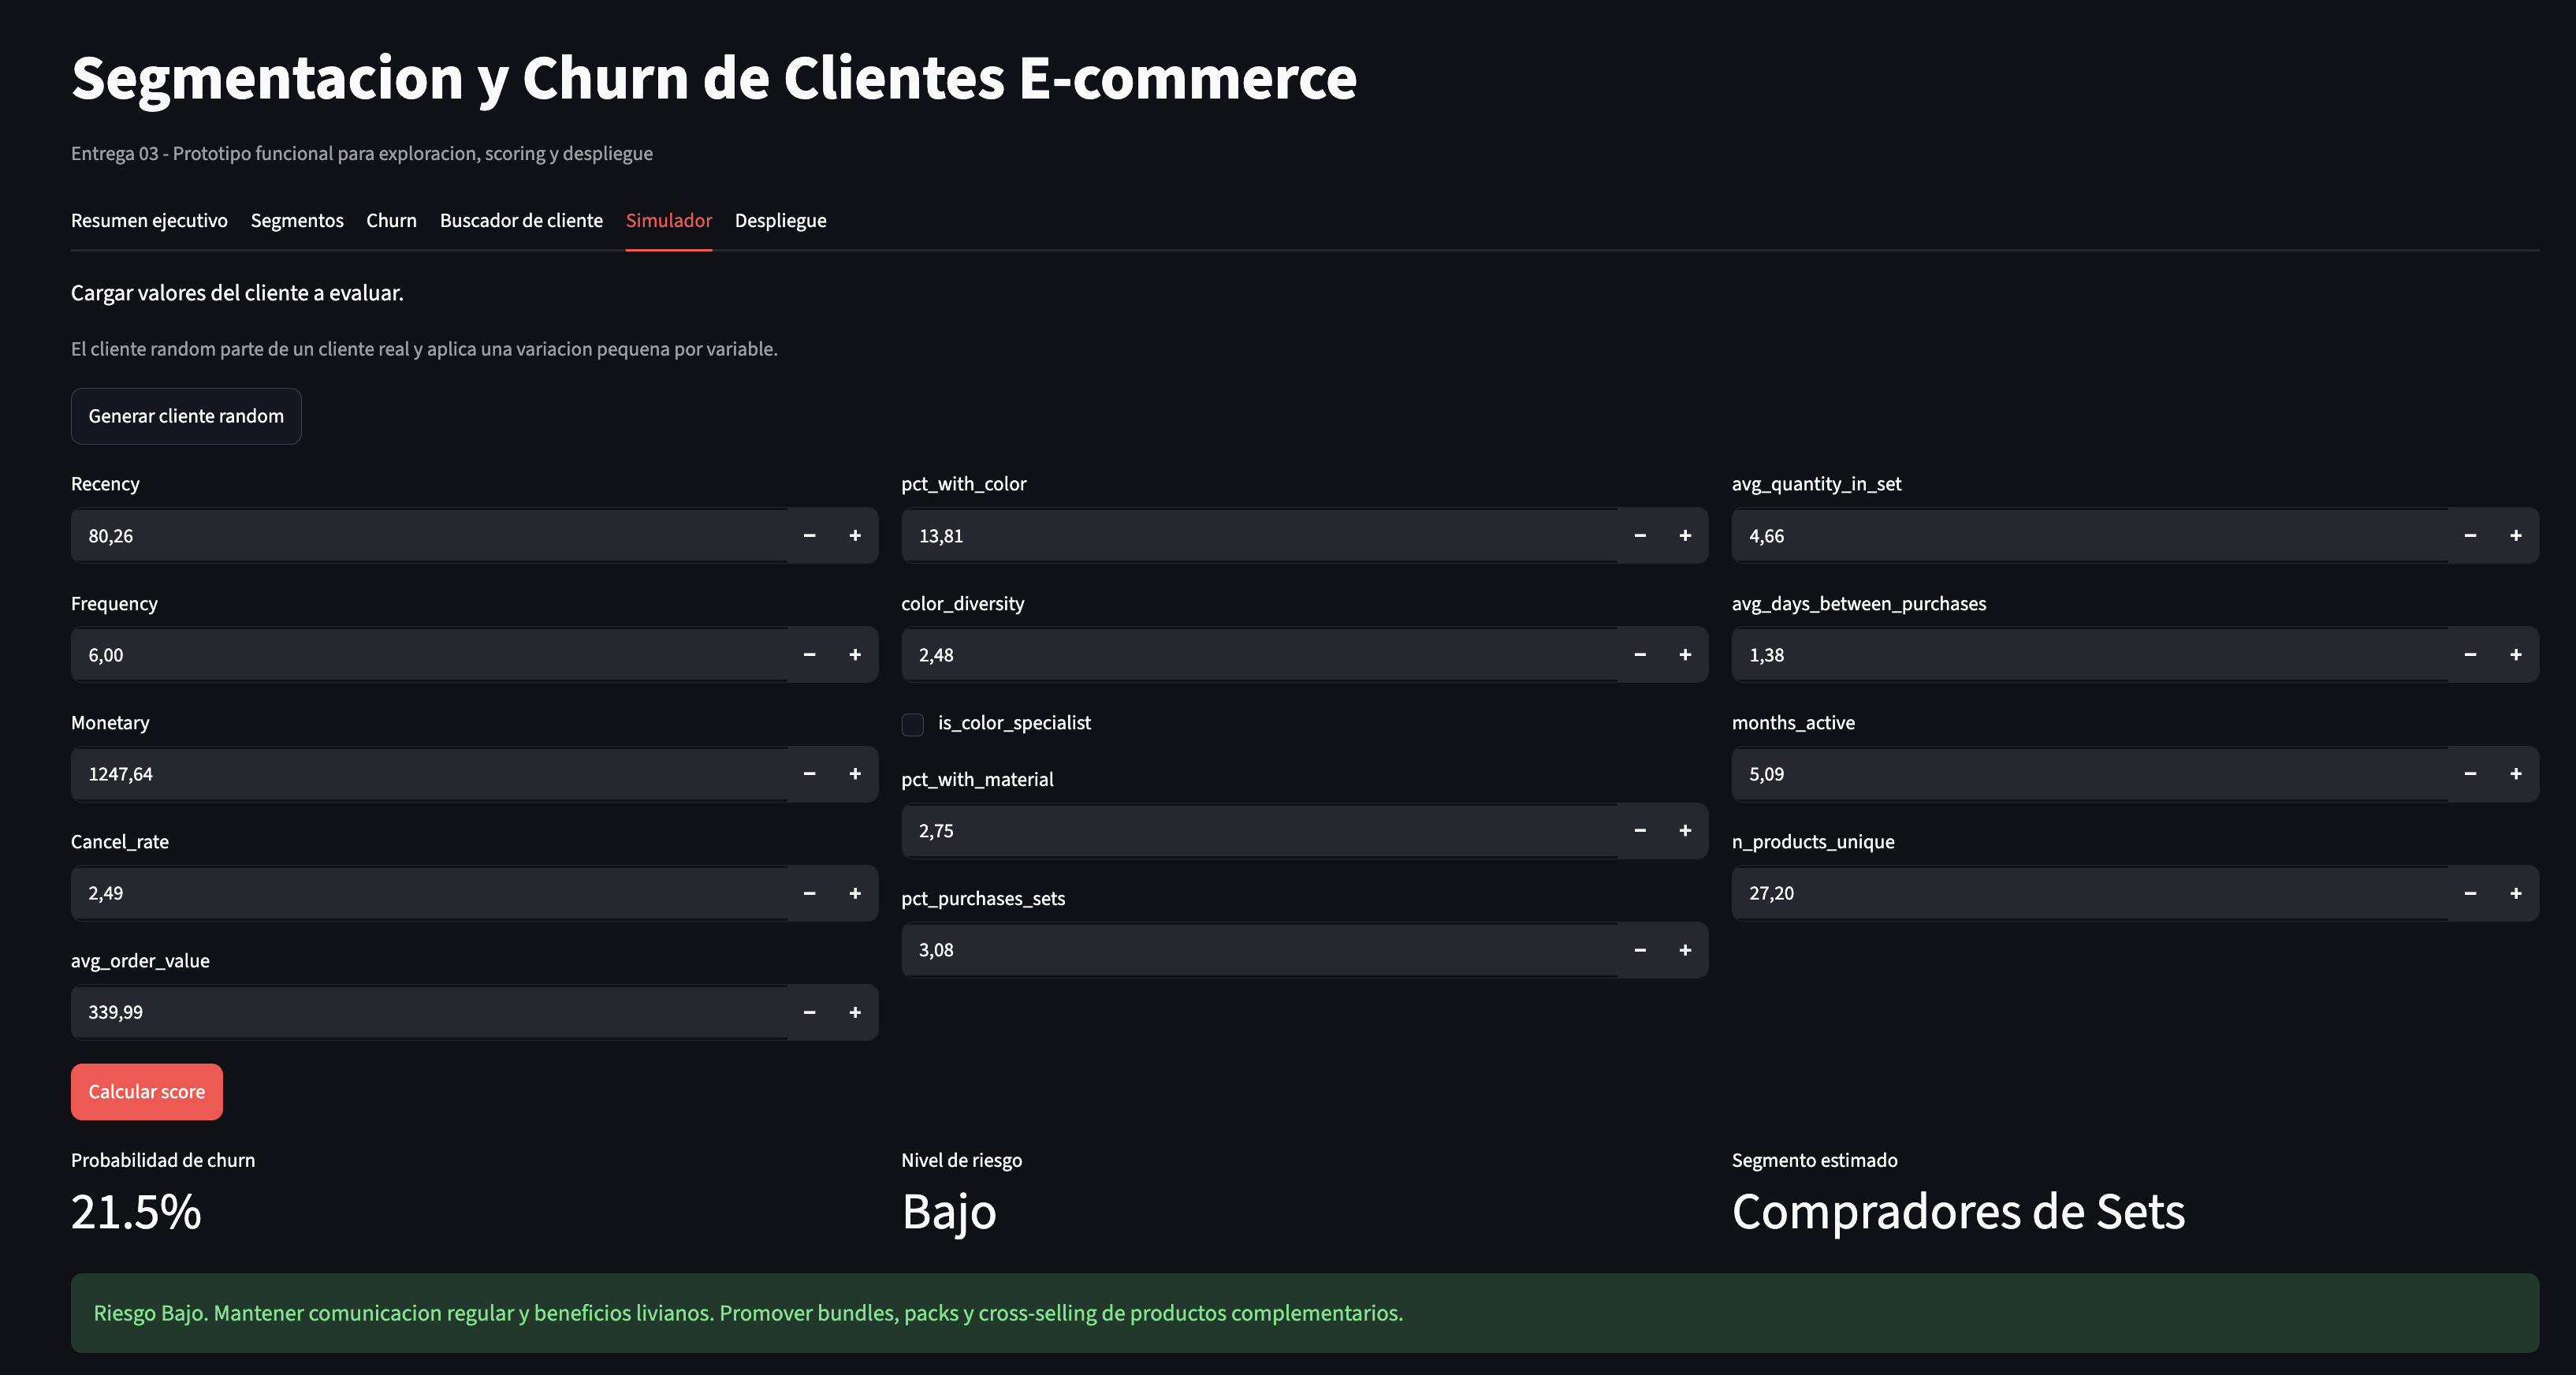
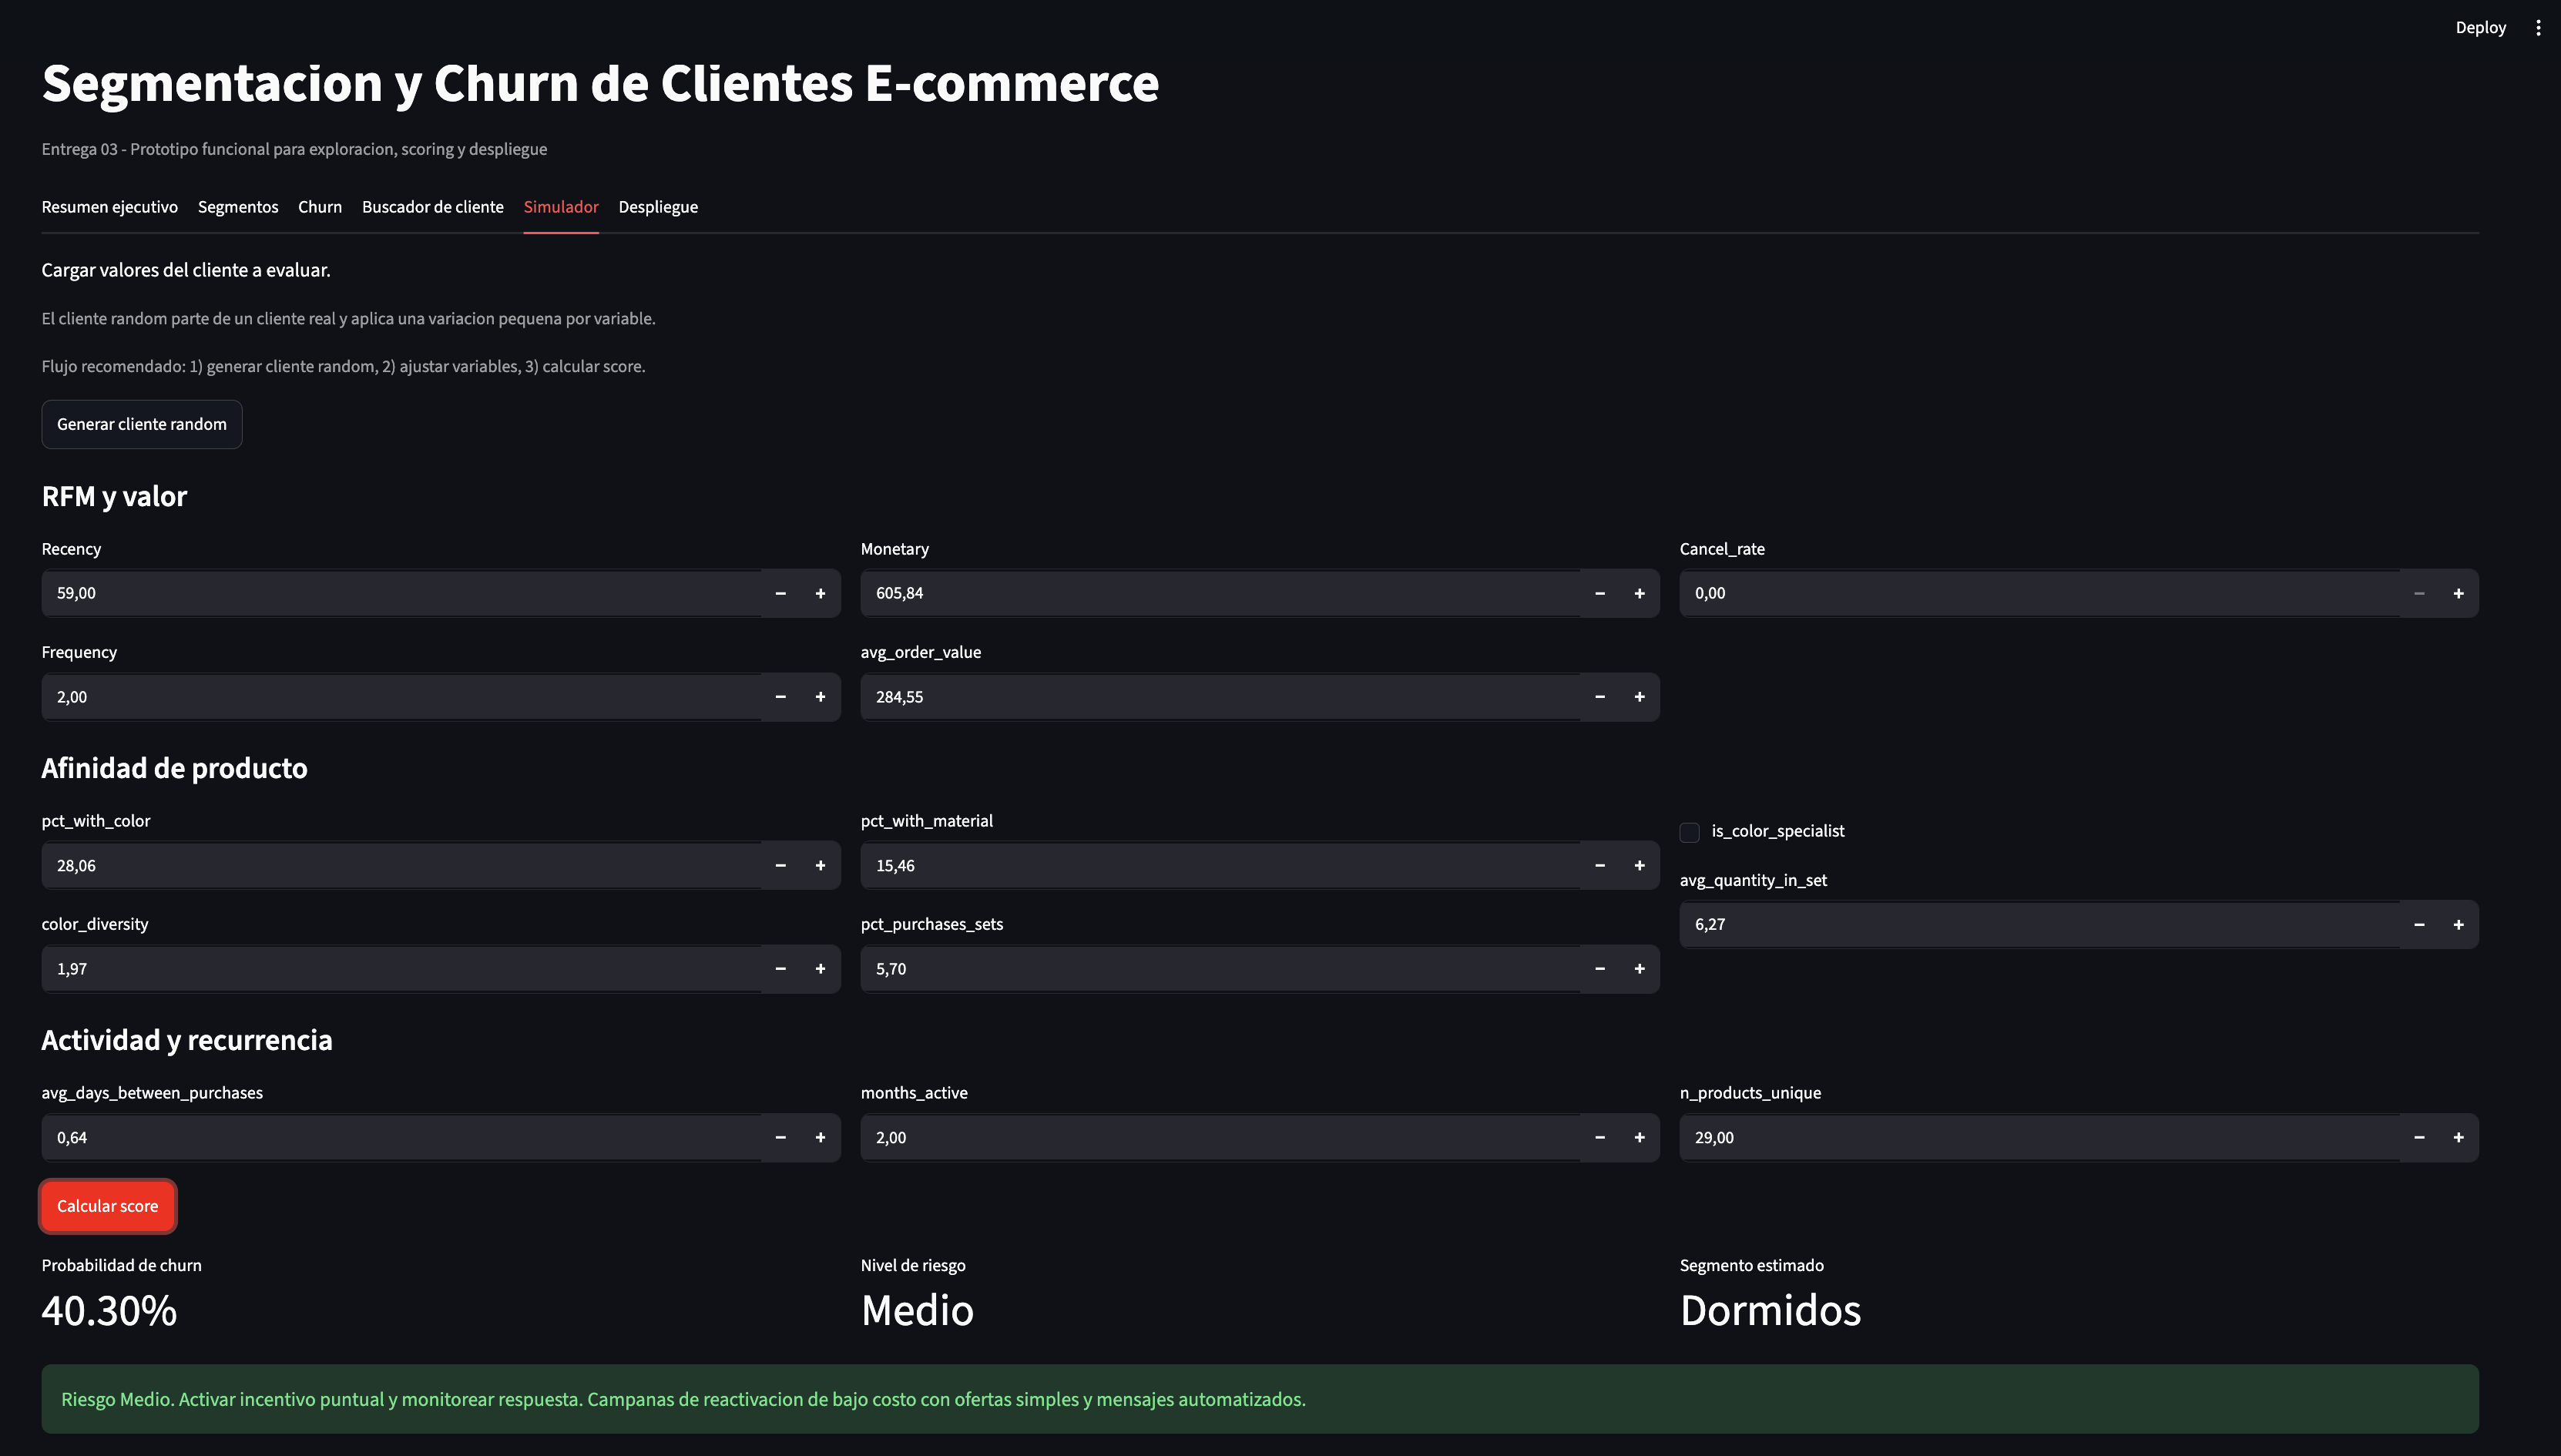
update: refrescar screenshot del README y ajustes de UI en Streamlit
Actualiza la captura mostrada en el README con la version mas reciente y aplica mejoras de contenido/precision en la interfaz de la app.

Changed region(s): [[0.0, 0.031, 0.9988, 0.9908]]

diff --git a/notebooks/7-deploy/streamlit_app.py b/notebooks/7-deploy/streamlit_app.py
@@ -98,7 +98,7 @@ def format_money(value: float) -> str:
 
 
 def format_pct(value: float) -> str:
-    return f"{value:.1%}"
+    return f"{value:.2%}"
 
 
 def risk_level(probability: float) -> str:
@@ -202,8 +202,6 @@ def render_sidebar(customer_table: pd.DataFrame) -> None:
     st.sidebar.write("Modelos usados:")
     st.sidebar.write("- K-Means para segmentacion")
     st.sidebar.write("- Random Forest para churn")
-    st.sidebar.markdown("---")
-    st.sidebar.caption("Los artefactos se cargan desde `data/` para que la demo funcione offline.")
 
 
 def render_executive_summary(customer_table: pd.DataFrame) -> None:
@@ -224,9 +222,17 @@ def render_executive_summary(customer_table: pd.DataFrame) -> None:
         "Revenue en riesgo (probabilidad >= 0,40)",
         format_money(float(risk_clients["Monetary"].sum())),
     )
+    st.markdown("### Metodologia en una linea")
+    st.write(
+        "- **Segmentacion (K-Means):** identifica perfiles de clientes para orientar estrategias.\n"
+        "- **Churn (Random Forest):** estima probabilidad de abandono para priorizar retencion."
+    )
     st.info(
         "Lectura ejecutiva: la solucion combina segmentos de negocio con probabilidad de churn "
         "para priorizar acciones comerciales, especialmente en clientes VIP con riesgo elevado."
+    )
+    st.caption(
+        "Nota: el umbral de priorizacion actual es 0.40. Puede ajustarse en la pestana de Churn."
     )
     display_report_image("segment_dashboard", "Dashboard de segmentos")
 
@@ -249,6 +255,9 @@ def render_segments(customer_table: pd.DataFrame) -> None:
     )
     st.subheader("Perfil agregado por segmento")
     st.dataframe(agg, width="stretch")
+    st.caption(
+        "Sugerencia de lectura: priorizar segmentos con mayor revenue y mayor churn_prob promedio."
+    )
 
     st.subheader("Interpretacion comercial")
     cols = st.columns(4)
@@ -303,14 +312,22 @@ def render_churn(customer_table: pd.DataFrame) -> None:
 
     st.subheader("Ranking de clientes en riesgo")
     st.dataframe(ranking, width="stretch", hide_index=True)
+    st.caption(
+        "`churn_prob` es probabilidad estimada; `churn_pred` es la clase final segun el umbral del modelo."
+    )
+    st.caption("Uso recomendado: ranking para priorizacion comercial, no como explicacion causal.")
 
     left, right = st.columns(2)
     with left:
         display_report_image("churn_feature_importance", "Importancia de variables")
-        display_report_image("churn_confusion_matrices", "Matrices de confusion")
     with right:
-        display_report_image("churn_roc_curves", "Curvas ROC")
         display_report_image("churn_by_segment", "Churn por segmento")
+    with st.expander("Ver metricas tecnicas de validacion (detalle)"):
+        c1, c2 = st.columns(2)
+        with c1:
+            display_report_image("churn_confusion_matrices", "Matrices de confusion")
+        with c2:
+            display_report_image("churn_roc_curves", "Curvas ROC")
 
 
 def render_customer_lookup(customer_table: pd.DataFrame) -> None:
@@ -553,30 +570,48 @@ def collect_simulation_inputs(
     st.caption(
         "El cliente random parte de un cliente real y aplica una variacion pequena por variable."
     )
+    st.caption(
+        "Flujo recomendado: 1) generar cliente random, 2) ajustar variables, 3) calcular score."
+    )
     if st.button("Generar cliente random", type="secondary"):
         randomize_simulator_state(stats, anchor_pool, kmeans_bundle, labels)
 
-    col1, col2, col3 = st.columns(3)
     values: dict[str, float] = {}
-    with col1:
-        for field in ["Recency", "Frequency", "Monetary", "Cancel_rate", "avg_order_value"]:
-            values[field] = number_input_for_field(field, stats)
-    with col2:
+    st.markdown("#### RFM y valor")
+    r1, r2, r3 = st.columns(3)
+    with r1:
+        values["Recency"] = number_input_for_field("Recency", stats)
+        values["Frequency"] = number_input_for_field("Frequency", stats)
+    with r2:
+        values["Monetary"] = number_input_for_field("Monetary", stats)
+        values["avg_order_value"] = number_input_for_field("avg_order_value", stats)
+    with r3:
+        values["Cancel_rate"] = number_input_for_field("Cancel_rate", stats)
+
+    st.markdown("#### Afinidad de producto")
+    p1, p2, p3 = st.columns(3)
+    with p1:
         values["pct_with_color"] = number_input_for_field("pct_with_color", stats)
         values["color_diversity"] = number_input_for_field("color_diversity", stats)
+    with p2:
+        values["pct_with_material"] = number_input_for_field("pct_with_material", stats)
+        values["pct_purchases_sets"] = number_input_for_field("pct_purchases_sets", stats)
+    with p3:
         values["is_color_specialist"] = float(
             st.checkbox("is_color_specialist", key=simulator_key("is_color_specialist"))
         )
-        values["pct_with_material"] = number_input_for_field("pct_with_material", stats)
-        values["pct_purchases_sets"] = number_input_for_field("pct_purchases_sets", stats)
-    with col3:
-        for field in [
-            "avg_quantity_in_set",
-            "avg_days_between_purchases",
-            "months_active",
-            "n_products_unique",
-        ]:
-            values[field] = number_input_for_field(field, stats)
+        values["avg_quantity_in_set"] = number_input_for_field("avg_quantity_in_set", stats)
+
+    st.markdown("#### Actividad y recurrencia")
+    a1, a2, a3 = st.columns(3)
+    with a1:
+        values["avg_days_between_purchases"] = number_input_for_field(
+            "avg_days_between_purchases", stats
+        )
+    with a2:
+        values["months_active"] = number_input_for_field("months_active", stats)
+    with a3:
+        values["n_products_unique"] = number_input_for_field("n_products_unique", stats)
     return values
 
 
@@ -667,6 +702,7 @@ def render_deployment() -> None:
         "transacciones, limpieza, generacion de features, scoring de modelos y publicacion en "
         "dashboard interno o CRM."
     )
+    st.caption("Estado actual: MVP local funcional con Streamlit y artefactos precalculados.")
 
     st.subheader("Recursos requeridos")
     st.write(